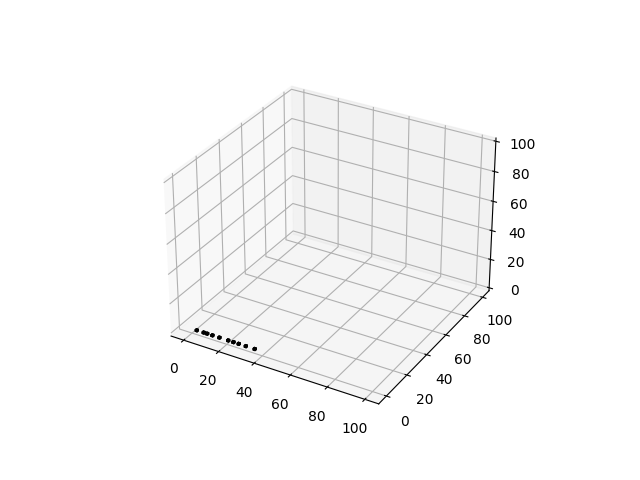
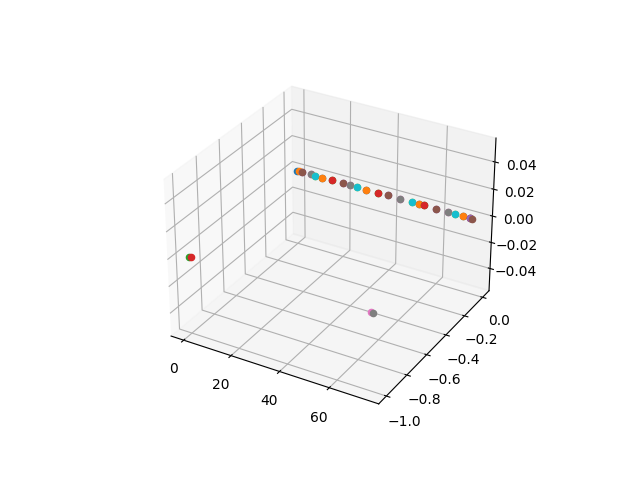
plot code

diff --git a/main.py b/main.py
@@ -8,6 +8,7 @@ from numpy.random import default_rng
 from copy import deepcopy
 import matplotlib.pyplot as plt
 import numpy as np
+import math
 
 list_of_placed_jumps: List[JumpType] = []
 list_of_candidates: List[JumpType] = []
@@ -86,8 +87,12 @@ def can_be_placed(jumptype: JumpType, current_block_position: tuple, current_for
     return True
 
 
-current_block_position = (0, 0, 0)
-current_forward_direction = "Xpos"
+# Place Start Structure of the Parkour
+current_block_position = config.StartPosition
+current_forward_direction = config.StartForwardDirection
+StartBlock = deepcopy(config.StartBlock)
+StartBlock.set_absolut_coordinates(current_block_position, current_forward_direction)
+list_of_placed_jumps.append(StartBlock)
 
 for iteration in range(config.MaxParkourLength):
 
@@ -124,22 +129,84 @@ for iteration in range(config.MaxParkourLength):
     # Clear list of candidates for next iteration
     list_of_candidates = []
 
+# Place Finish Structure of the Parkour
+FinishBlock = deepcopy(config.FinishBlock)
+FinishBlock.set_absolut_coordinates(current_block_position, current_forward_direction)
+list_of_placed_jumps.append(FinishBlock)
+
     
 print("Filling 3D array")
-array_3d = np.zeros(config.ParkourVolume, dtype=int)
+if config.EnforceParkourVolume:
+
+    array_3d = np.zeros(config.ParkourVolume, dtype=int)
+else:
+
+    furthest_block = (0, 0, 0)
+    longest_distance = 0
+    first_jump = list_of_placed_jumps[0]
+    origin = (first_jump.rel_start_block.abs_position)
+    # print(origin)
+    for placed_jump in list_of_placed_jumps:
+
+        x = placed_jump.rel_start_block.abs_position[0]
+        y = placed_jump.rel_start_block.abs_position[1]
+        z = placed_jump.rel_start_block.abs_position[2]
+
+        distance = math.sqrt((x-origin[0])**2 + (y-origin[1]**2) + (z-origin[2])**2)
+
+        if distance > longest_distance:
+            distance = longest_distance
+            furthest_block = (x, y, z)
+
+        x = placed_jump.rel_finish_block.abs_position[0]
+        y = placed_jump.rel_finish_block.abs_position[1]
+        z = placed_jump.rel_finish_block.abs_position[2]
+
+        distance = math.sqrt((x-origin[0])**2 + (y-origin[1]**2) + (z-origin[2])**2)
+
+        if distance > longest_distance:
+            distance = longest_distance
+            furthest_block = (x, y, z)
+        
+
+        for block in placed_jump.blocks:
+
+            x = block.abs_position[0]
+            y = block.abs_position[1]
+            z = block.abs_position[2]
+
+            distance = math.sqrt((x-origin[0])**2 + (y-origin[1]**2) + (z-origin[2])**2)
+
+            if distance > longest_distance:
+                distance = longest_distance
+                furthest_block = (x, y, z)
+    
+    max_axis_distance = max(furthest_block) + 10
+    # print(max_axis_distance)
+    array_3d = np.zeros((max_axis_distance, max_axis_distance, max_axis_distance), dtype=int)
+
+
+
+fig = plt.figure()
+ax = fig.add_subplot(projection='3d')
 
 for placed_jump in list_of_placed_jumps:
-    # print(placed_jump.name)
+    print(placed_jump)
 
     # print(placed_jump.rel_start_block.abs_position)
     # print(placed_jump.rel_finish_block.abs_position)
     
-    array_3d[placed_jump.rel_start_block.abs_position[0]][placed_jump.rel_start_block.abs_position[2]][placed_jump.rel_start_block.abs_position[1]] = 1
-    array_3d[placed_jump.rel_finish_block.abs_position[0]][placed_jump.rel_finish_block.abs_position[2]][placed_jump.rel_finish_block.abs_position[1]] = 1
+    # array_3d[placed_jump.rel_start_block.abs_position[0]][placed_jump.rel_start_block.abs_position[2]][placed_jump.rel_start_block.abs_position[1]] = 1
+    # array_3d[placed_jump.rel_finish_block.abs_position[0]][placed_jump.rel_finish_block.abs_position[2]][placed_jump.rel_finish_block.abs_position[1]] = 1
+    
+    ax.scatter(placed_jump.rel_start_block.abs_position[0], placed_jump.rel_start_block.abs_position[2], placed_jump.rel_start_block.abs_position[1])
+    ax.scatter(placed_jump.rel_finish_block.abs_position[0], placed_jump.rel_finish_block.abs_position[2], placed_jump.rel_finish_block.abs_position[1])
 
     for block in placed_jump.blocks:
 
-        array_3d[block.abs_position[0]][block.abs_position[2]][block.abs_position[1]] = 1
+        # array_3d[block.abs_position[0]][block.abs_position[2]][block.abs_position[1]] = 1
+
+        ax.scatter(block.abs_position[0], block.abs_position[2], block.abs_position[1])
 
 
 
@@ -148,8 +215,6 @@ for placed_jump in list_of_placed_jumps:
 
 
 print("Generating plot")
-ax = plt.figure().add_subplot(projection='3d')
-ax.voxels(array_3d, facecolors="green", edgecolor='k')
 plt.savefig("parkour_plot.png")
 
 

diff --git a/config.py b/config.py
@@ -1,10 +1,29 @@
+from classes import Block, JumpType
+
 ParkourVolume = (100, 100, 100)
-MaxParkourLength = 10
+EnforceParkourVolume = False
+FillParkourVolumeWithAirFirst = False
+MaxParkourLength = 20
 Difficulty = 1.0
 Flow = 0.0
 ParkourType = "UpwardSpiral"
 BlockType = "minecraft:bedrock"
-FillParkourVolumeWithAirFirst = True
-StartBlockSize = (3, 3)
-FinishBlockSize = (3, 3)
+
+StartPosition = (0, 0, 0)
+StartForwardDirection = "Xpos"
+
+StartBlock = JumpType(name="Parkour Start Structure", structure_type="Start", 
+                      rel_start_block=Block("minecraft:bedrock", (0, 0, 0)), 
+                      rel_finish_block=Block("minecraft:bedrock", (1, 0, 0)),
+                      blocks=[Block(BlockType, (0, 0, -1)), Block(BlockType, (1, 0, -1))],
+                      difficulty=0.0, 
+                      flow=1.0)
+FinishBlock = JumpType(name="Parkour Finish Structure", structure_type="Finish", 
+                      rel_start_block=Block("minecraft:bedrock", (0, 0, 0)), 
+                      rel_finish_block=Block("minecraft:bedrock", (1, 0, 0)),
+                      blocks=[Block(BlockType, (0, 0, -1)), Block(BlockType, (1, 0, -1))],
+                      difficulty=0.0, 
+                      flow=1.0)
+
+
 Stages = 1

diff --git a/classes.py b/classes.py
@@ -7,6 +7,16 @@ class Block:
         self.name = name                    # Minecraft block name
         self.rel_position = rel_position    # Relative position to last jump block in parkour
         self.abs_position = (0, 0, 0)       # Absolute coordinates in the minecraft world
+
+    def __str__(self) -> str:
+        
+        printstr = {
+            "name": self.name,
+            "rel_position": self.rel_position,
+            "abs_position": self.abs_position
+        }
+
+        return str(printstr)
     
     def set_abs_position(self, abs_coordinates: tuple):
 
@@ -24,6 +34,13 @@ class JumpType:
         
         self.difficulty = difficulty
         self.flow = flow
+    
+    def __str__(self) -> str:
+        
+        printstr = f"name: {self.name} \nstructure_type: {self.structure_type} \nrel_start_block: {str(self.rel_start_block)} \nrel_finish_block: {str(self.rel_finish_block)} \nblocks: {[str(b) for b in self.blocks]}"
+                    
+
+        return "\n"+str(printstr)
     
     def set_absolut_coordinates(self, abs_tuple: tuple, forward_direction: str):
 
